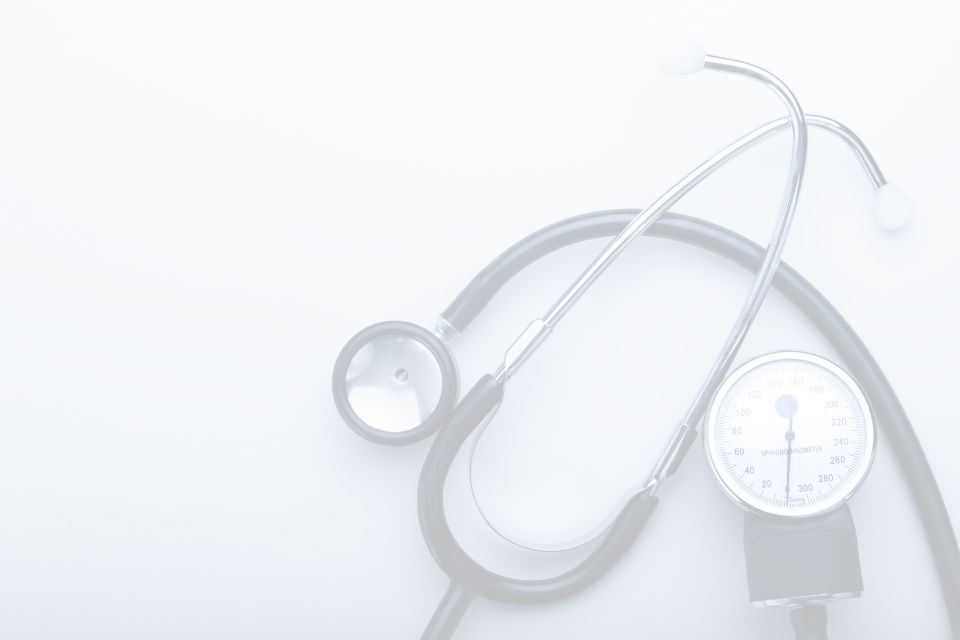
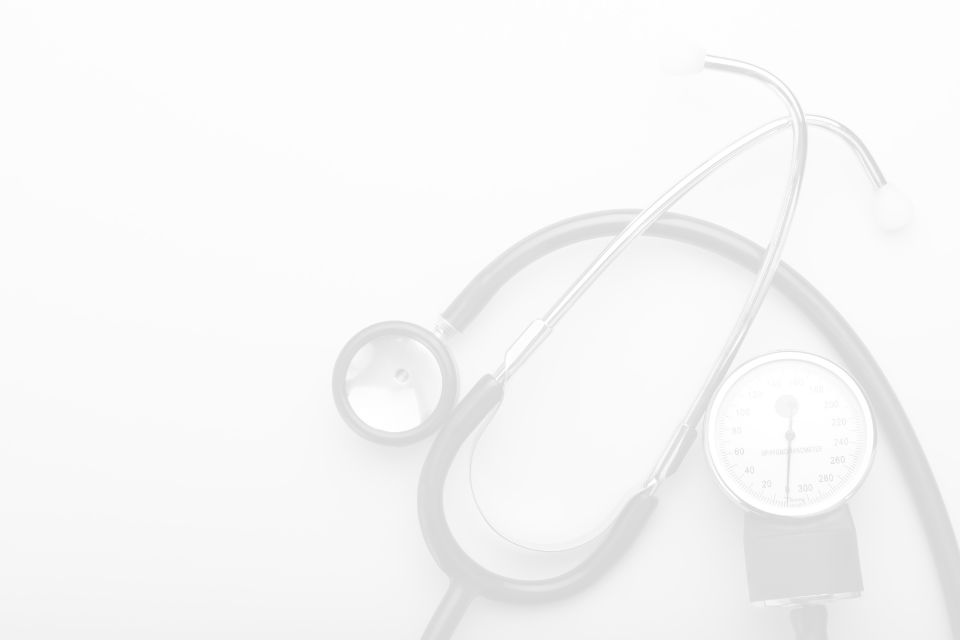
Updated images

diff --git a/app/assets/stylesheets/flickity.scss b/app/assets/stylesheets/flickity.scss
@@ -86,7 +86,7 @@ http://flickity.metafizzy.co
 }
 .gallery-cell-7{
   padding: 150px 0 350px 0;
-  background-image: url(asset_path('metro_1024.png'));
+  background-image: url(asset_path('metro.jpg'));
   background-size: cover;
   width: 100%;
   height: 160px;
